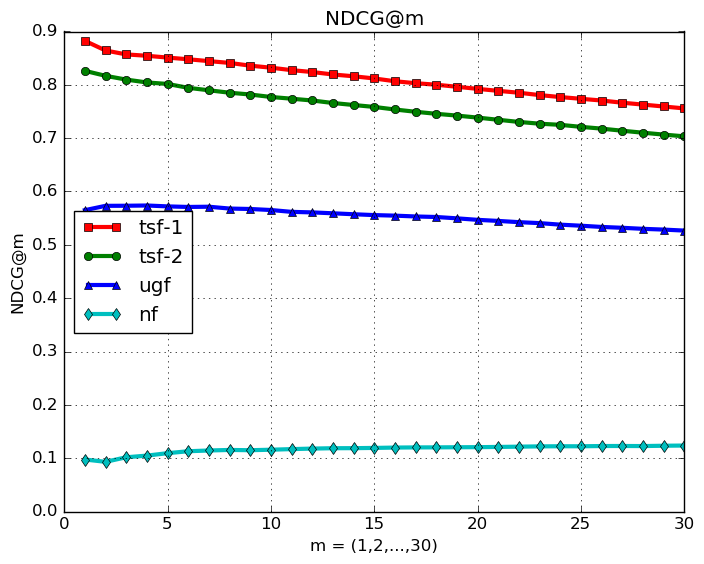
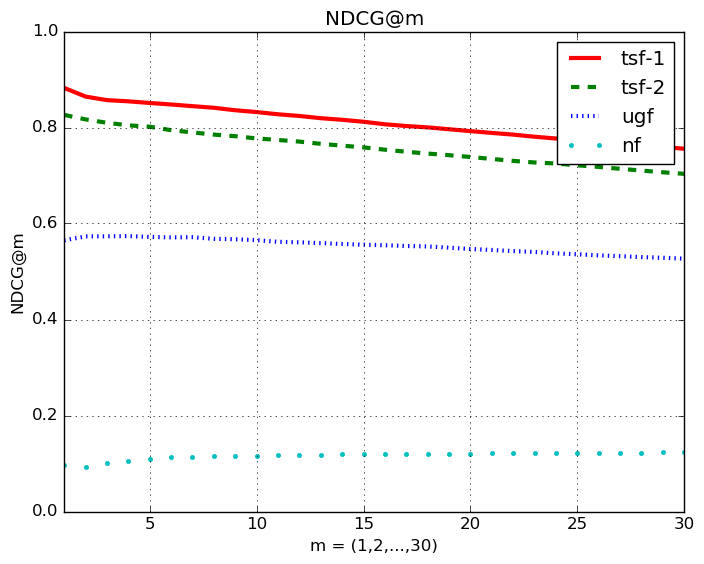
prep: all figures

diff --git a/models/fashionNet_9/training_record/t9.2_finetune_test/training_script/results/figures/visualization_whole.py b/models/fashionNet_9/training_record/t9.2_finetune_test/training_script/results/figures/visualization_whole.py
@@ -30,10 +30,12 @@ for i in range(0,ndcg_at_length):
 
 fig = plt.figure()
 ax_left = fig.add_subplot(111)
-ax_left.plot(ndcg_at_idx, optimal_ndcg_at, '-sr', label = 'tsf-1', LineWidth = 3)
-ax_left.plot(ndcg_at_idx, new_optimal_ndcg_at, '-og', label = 'tsf-2', LineWidth = 3)
-ax_left.plot(ndcg_at_idx, initial_ndcg_at, '-^b', label = 'ugf', LineWidth = 3)
-ax_left.plot(ndcg_at_idx, cmp_initial_ndcg_at, '-dc', label = 'nf', LineWidth = 3)
+plt.ylim([0,1])
+plt.xlim([1,30])
+ax_left.plot(ndcg_at_idx, optimal_ndcg_at, '-r', label = 'tsf-1', LineWidth = 3)
+ax_left.plot(ndcg_at_idx, new_optimal_ndcg_at, '--g', label = 'tsf-2', LineWidth = 3)
+ax_left.plot(ndcg_at_idx, initial_ndcg_at, ':b', label = 'ugf', LineWidth = 3)
+ax_left.plot(ndcg_at_idx, cmp_initial_ndcg_at, '.c', label = 'nf', LineWidth = 3)
 lines_left, labels_left = ax_left.get_legend_handles_labels()   
 ax_left.legend(lines_left, labels_left, loc=0)
 ax_left.grid()
@@ -65,10 +67,10 @@ for i in range(0,ndcg_at_length):
 
 fig = plt.figure()
 ax_left = fig.add_subplot(111)
-ax_left.plot(top_k_idx, top_k_optimal, '-sr', label = 'tsf-1', LineWidth = 3)
-ax_left.plot(top_k_idx, new_top_k_optimal, '-og', label = 'tsf-2', LineWidth = 3)
-ax_left.plot(top_k_idx, top_k_initial, '-^b', label = 'ugf', LineWidth = 3)
-ax_left.plot(top_k_idx, cmp_top_k_initial, '-dc', label = 'nf', LineWidth = 3)
+ax_left.plot(top_k_idx, top_k_optimal, '-r', label = 'tsf-1', LineWidth = 3)
+ax_left.plot(top_k_idx, new_top_k_optimal, '--g', label = 'tsf-2', LineWidth = 3)
+ax_left.plot(top_k_idx, top_k_initial, ':b', label = 'ugf', LineWidth = 3)
+ax_left.plot(top_k_idx, cmp_top_k_initial, '.c', label = 'nf', LineWidth = 3)
 lines_left, labels_left = ax_left.get_legend_handles_labels()   
 ax_left.legend(lines_left, labels_left, loc=0)
 ax_left.grid()

diff --git a/models/fashionNet_8/training_record/t8.1_finetune_test/training_script/results/figures/visualization.py b/models/fashionNet_8/training_record/t8.1_finetune_test/training_script/results/figures/visualization.py
@@ -187,10 +187,10 @@ for n in range(0,ndcg_length):
 
 fig = plt.figure()
 ax_left = fig.add_subplot(111)
-ax_left.plot(top_k_idx, top_k_optimal, '-sr', label = 'tsf-1', LineWidth = 3)
-ax_left.plot(top_k_idx, top_k_initial, '-^b', label = 'ugf', LineWidth = 3)
-ax_left.plot(top_k_idx, cmp_top_k_optimal, '-py', label = 'usf', LineWidth = 3)
-ax_left.plot(top_k_idx, cmp_top_k_initial, '-dc', label = 'nf', LineWidth = 3)
+ax_left.plot(top_k_idx, top_k_optimal, '-r', label = 'tsf-1', LineWidth = 3)
+ax_left.plot(top_k_idx, top_k_initial, '--b', label = 'ugf', LineWidth = 3)
+ax_left.plot(top_k_idx, cmp_top_k_optimal, ':y', label = 'usf', LineWidth = 3)
+ax_left.plot(top_k_idx, cmp_top_k_initial, '.c', label = 'nf', LineWidth = 3)
 lines_left, labels_left = ax_left.get_legend_handles_labels()   
 ax_left.legend(lines_left, labels_left, loc=0)
 ax_left.grid()
@@ -211,10 +211,10 @@ for n in range(0,ndcg_at_length):
 
 fig = plt.figure()
 ax_left = fig.add_subplot(111)
-ax_left.plot(ndcg_at_idx, optimal_ndcg_at, '-sr', label = 'tsf-1', LineWidth = 3)
-ax_left.plot(ndcg_at_idx, initial_ndcg_at, '-^b', label = 'ugf', LineWidth = 3)
-ax_left.plot(ndcg_at_idx, cmp_optimal_ndcg_at, '-py', label = 'usf', LineWidth = 3)
-ax_left.plot(ndcg_at_idx, cmp_initial_ndcg_at, '-dc', label = 'nf', LineWidth = 3)
+ax_left.plot(ndcg_at_idx, optimal_ndcg_at, '-r', label = 'tsf-1', LineWidth = 3)
+ax_left.plot(ndcg_at_idx, initial_ndcg_at, '--b', label = 'ugf', LineWidth = 3)
+ax_left.plot(ndcg_at_idx, cmp_optimal_ndcg_at, ':y', label = 'usf', LineWidth = 3)
+ax_left.plot(ndcg_at_idx, cmp_initial_ndcg_at, '.c', label = 'nf', LineWidth = 3)
 lines_left, labels_left = ax_left.get_legend_handles_labels()   
 ax_left.legend(lines_left, labels_left, loc=0)
 ax_left.grid()

diff --git a/models/fashionNet_3/training_record/t3.2_finetune_train_val/training_script/results/figures/visualization_whole.py b/models/fashionNet_3/training_record/t3.2_finetune_train_val/training_script/results/figures/visualization_whole.py
@@ -30,9 +30,9 @@ for i in range(0,ndcg_at_length):
 
 fig = plt.figure()
 ax_left = fig.add_subplot(111)
-ax_left.plot(ndcg_at_idx, optimal_ndcg_at, '-sr', label = 'tsf-1', LineWidth = 3)
-ax_left.plot(ndcg_at_idx, new_optimal_ndcg_at, '-og', label = 'tsf-2', LineWidth = 3)
-ax_left.plot(ndcg_at_idx, initial_ndcg_at, '-^b', label = 'ugf', LineWidth = 3)
+ax_left.plot(ndcg_at_idx, optimal_ndcg_at, '-r', label = 'tsf-1', LineWidth = 3)
+ax_left.plot(ndcg_at_idx, new_optimal_ndcg_at, '--g', label = 'tsf-2', LineWidth = 3)
+ax_left.plot(ndcg_at_idx, initial_ndcg_at, ':b', label = 'ugf', LineWidth = 3)
 # ax_left.plot(ndcg_at_idx, cmp_initial_ndcg_at, '-dc', label = 'nf', LineWidth = 3)
 lines_left, labels_left = ax_left.get_legend_handles_labels()   
 ax_left.legend(lines_left, labels_left, loc=0)
@@ -65,9 +65,9 @@ for i in range(0,ndcg_at_length):
 
 fig = plt.figure()
 ax_left = fig.add_subplot(111)
-ax_left.plot(top_k_idx, top_k_optimal, '-sr', label = 'tsf-1', LineWidth = 3)
-ax_left.plot(top_k_idx, new_top_k_optimal, '-og', label = 'tsf-2', LineWidth = 3)
-ax_left.plot(top_k_idx, top_k_initial, '-^b', label = 'ugf', LineWidth = 3)
+ax_left.plot(top_k_idx, top_k_optimal, '-r', label = 'tsf-1', LineWidth = 3)
+ax_left.plot(top_k_idx, new_top_k_optimal, '--g', label = 'tsf-2', LineWidth = 3)
+ax_left.plot(top_k_idx, top_k_initial, ':b', label = 'ugf', LineWidth = 3)
 # ax_left.plot(top_k_idx, cmp_top_k_initial, '-dc', label = 'nf', LineWidth = 3)
 lines_left, labels_left = ax_left.get_legend_handles_labels()   
 ax_left.legend(lines_left, labels_left, loc=0)
